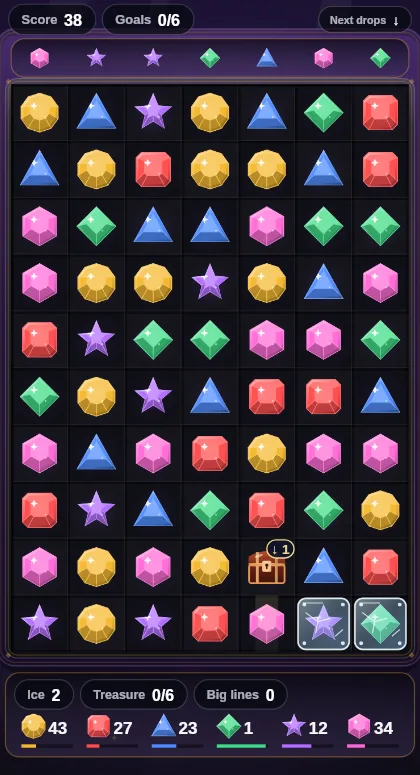
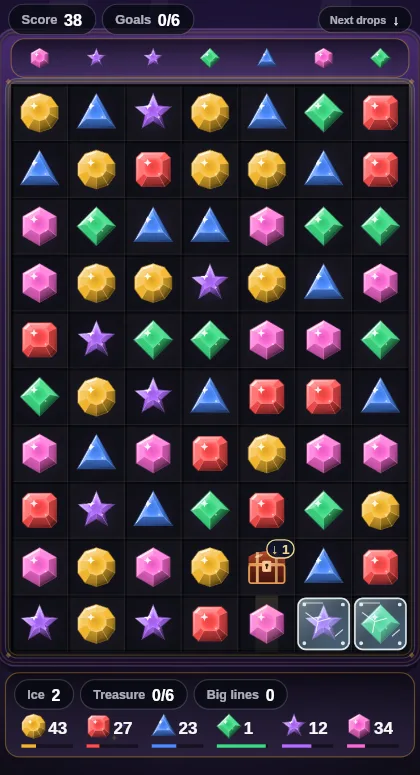
Strategy overhaul: lit cut gems, glossy rainbow tubes, stills redrawn
Claude-Session: https://claude.ai/code/session_011WK1FfxvNMx4N2SgzG8au9

diff --git a/src/lib/arcade/matchup.renderer.ts b/src/lib/arcade/matchup.renderer.ts
@@ -212,29 +212,54 @@ function facetedGem(ctx: CanvasRenderingContext2D, pts: Array<[number, number]>,
   ctx.restore();
 }
 
-/** Flat table and bevel planes: fixed per cut, with three own-colour shades. */
+/**
+ * A cut stone (the Strategy overhaul, 15 Nov 2026, display only; was flat table and bevel planes in three shades): each
+ * bevel facet is lit by how it faces a light from the upper left, from deep shadow to near white, with its own
+ * gradient from the girdle in to the table; the table refracts (darker at its heart, bright at its edge); the most lit
+ * facet carries a crisp white specular strip, and the shared glint sits on top. All inside the cut's outline.
+ */
 function flatGem(ctx: CanvasRenderingContext2D, shape: string, cx: number, cy: number, r: number, colour: string): void {
   const pts = cutPoints(shape, cx, cy, r);
-  const inner = pts.map(([x, y]) => [cx + (x - cx) * 0.5, cy + (y - cy) * 0.5 - r * 0.12] as [number, number]);
-  const light = shade(colour, 0.28);
-  const dark = shade(colour, -0.3);
+  const inner = pts.map(([x, y]) => [cx + (x - cx) * 0.52, cy + (y - cy) * 0.52 - r * 0.1] as [number, number]);
+  const lx = -0.55, ly = -0.83;
   ctx.save();
   pathOf(ctx, pts);
   ctx.clip();
+  ctx.fillStyle = shade(colour, -0.45);
+  pathOf(ctx, pts);
+  ctx.fill();
+  let best = -2;
+  let bestK = 0;
   for (let k = 0; k < pts.length; k++) {
     const a = pts[k]; const b = pts[(k + 1) % pts.length];
     const ia = inner[k]; const ib = inner[(k + 1) % inner.length];
     if (!a || !b || !ia || !ib) continue;
-    const height = ((a[1] + b[1]) / 2 - cy) / r;
-    ctx.fillStyle = height < -0.3 ? light : height > 0.3 ? dark : colour;
+    const mx = (a[0] + b[0]) / 2 - cx, my = (a[1] + b[1]) / 2 - cy;
+    const len = Math.hypot(mx, my) || 1;
+    const lit = (mx / len) * lx + (my / len) * ly;
+    if (lit > best) { best = lit; bestK = k; }
+    const outer = shade(colour, lit > 0 ? 0.5 * lit : 0.62 * lit);
+    const innerC = shade(colour, lit > 0 ? 0.3 * lit + 0.05 : 0.35 * lit);
+    const g = ctx.createLinearGradient(cx + mx, cy + my, cx + mx * 0.5, cy + my * 0.5);
+    g.addColorStop(0, outer);
+    g.addColorStop(1, innerC);
+    ctx.fillStyle = g;
     pathOf(ctx, [a, b, ib, ia]);
     ctx.fill();
   }
+  // The table: light refracted round its edge, deeper at its heart.
+  const tcx = cx, tcy = cy - r * 0.1;
+  const table = ctx.createRadialGradient(tcx - r * 0.08, tcy - r * 0.08, 0, tcx, tcy, r * 0.55);
+  table.addColorStop(0, shade(colour, -0.12));
+  table.addColorStop(0.55, colour);
+  table.addColorStop(1, shade(colour, 0.32));
+  ctx.fillStyle = table;
   pathOf(ctx, inner);
-  ctx.fillStyle = light;
   ctx.fill();
-  ctx.strokeStyle = light;
-  ctx.lineWidth = 0.65;
+  // Facet edges: thin lighter lines, never a glowing outline.
+  ctx.strokeStyle = shade(colour, 0.35);
+  ctx.globalAlpha = 0.55;
+  ctx.lineWidth = 0.6;
   ctx.beginPath();
   for (let k = 0; k < pts.length; k++) {
     const a = pts[k]; const b = inner[k];
@@ -243,15 +268,19 @@ function flatGem(ctx: CanvasRenderingContext2D, shape: string, cx: number, cy: n
   }
   ctx.stroke();
   pathOf(ctx, inner); ctx.stroke();
-  pathOf(ctx, pts); ctx.lineWidth = 1; ctx.stroke();
-  // Own-colour inner light is baked once into the clipped gem sprite.
-  const shine = ctx.createRadialGradient(cx - r * 0.2, cy - r * 0.25, 0, cx, cy, r * 0.9);
-  shine.addColorStop(0, shade(colour, 0.42));
-  shine.addColorStop(1, colour);
-  ctx.globalAlpha = 0.16;
-  ctx.fillStyle = shine;
-  pathOf(ctx, pts); ctx.fill();
   ctx.globalAlpha = 1;
+  // A crisp specular strip on the most lit facet.
+  const a = pts[bestK], b = pts[(bestK + 1) % pts.length], ia = inner[bestK], ib = inner[(bestK + 1) % inner.length];
+  if (a && b && ia && ib) {
+    const mid = (p: [number, number], q: [number, number], t: number): [number, number] => [p[0] + (q[0] - p[0]) * t, p[1] + (q[1] - p[1]) * t];
+    ctx.fillStyle = "rgba(255,255,255,0.78)";
+    pathOf(ctx, [mid(a, ia, 0.22), mid(b, ib, 0.22), mid(b, ib, 0.42), mid(a, ia, 0.42)]);
+    ctx.fill();
+  }
+  pathOf(ctx, pts);
+  ctx.strokeStyle = shade(colour, -0.55);
+  ctx.lineWidth = 1;
+  ctx.stroke();
   gemGlint(ctx, pts, cx, cy, r);
   ctx.restore();
 }

diff --git a/src/lib/arcade/inkBridge.renderer.ts b/src/lib/arcade/inkBridge.renderer.ts
@@ -209,15 +209,15 @@ function paintBridge(c: CanvasRenderingContext2D,state:InkState):void {
     c.strokeStyle=rainbow(c,s.x0,s.y0,s.x1,s.y1,distance,len);
     c.beginPath();c.moveTo(s.x0,s.y0);c.lineTo(s.x1,s.y1);c.stroke();distance+=len;
   }
-  // Polish A2: a shine line along the ink, a thin white highlight on its upper side (inside the 6 px stroke).
-  c.lineWidth=1.4;c.strokeStyle='rgba(255,255,255,0.5)';
-  c.beginPath();
-  for(const s of state.segs){
+  // The Strategy overhaul (15 Nov 2026, display only): the ink as a glossy glass tube, all inside the 6 px stroke: a
+  // shade along its lower side, then a crisp white highlight on its upper side (Polish A2's shine, now sharper).
+  const along=(off:number)=>{c.beginPath();for(const s of state.segs){
     if(!s)continue;const len=Math.hypot(s.x1-s.x0,s.y1-s.y0);if(!len)continue;
     let nx=-(s.y1-s.y0)/len,ny=(s.x1-s.x0)/len;if(ny>0){nx=-nx;ny=-ny;}
-    c.moveTo(s.x0+nx*1.4,s.y0+ny*1.4);c.lineTo(s.x1+nx*1.4,s.y1+ny*1.4);
-  }
-  c.stroke();
+    c.moveTo(s.x0+nx*off,s.y0+ny*off);c.lineTo(s.x1+nx*off,s.y1+ny*off);
+  }c.stroke();};
+  c.lineWidth=1.6;c.strokeStyle='rgba(20,10,40,0.28)';along(-1.9);
+  c.lineWidth=1.3;c.strokeStyle='rgba(255,255,255,0.86)';along(1.5);
 }
 type BridgeCache={surface:ArtCanvas|null;segs:InkState['segs'];starts:InkState['strokeStarts'];k:number;h:number};
 const bridges=new WeakMap<CanvasRenderingContext2D,BridgeCache>();

diff --git a/src/components/puzzles/strategyStills.data.ts b/src/components/puzzles/strategyStills.data.ts
@@ -4,8 +4,8 @@
  */
 export const STRATEGY_STILLS: Record<"tilt" | "matchup" | "bubble" | "inkbridge" | "balltrack", string> = {
   tilt: "871e33d1e4",
-  matchup: "8762e2afd6",
+  matchup: "f2b8c93aa1",
   bubble: "db8771f0db",
-  inkbridge: "2b4668ee2f",
+  inkbridge: "ddc0292395",
   balltrack: "a8eb96f7ea",
 };
